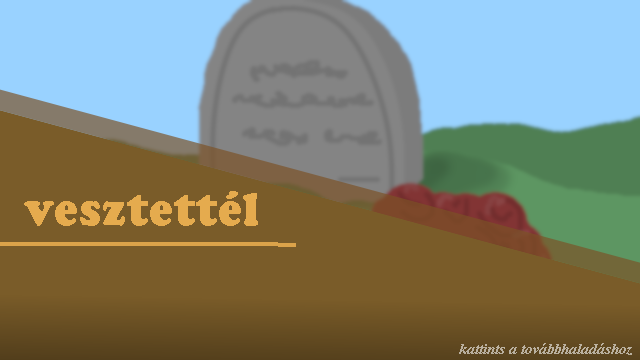
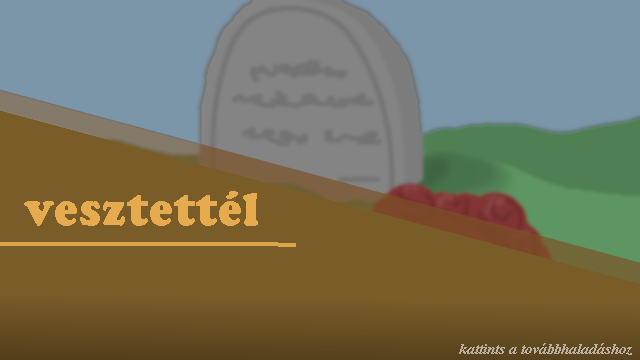
attackanim done

Changed region(s): [[0.5312, 0.0, 1.0, 0.3667], [0.0, 0.0, 0.4062, 0.3972]]

diff --git a/src/gui.py b/src/gui.py
@@ -8,11 +8,12 @@ width, height = 1280, 720
 #FO = főmenü
 #KARTYA = kártya menü
 #HARC =  harc event
-MENU = "KARTYA"
+MENU = "FO"
 
 user = None
 
 #fightEvent
+projanim:anim.Projectileanim | None = None 
 userCards:list[gameWrapper.CardSelectWrapper] = []
 dungeonCards:list[gameWrapper.CardSelectWrapper] = []
 turn=0
@@ -25,6 +26,9 @@ waittime = 0.5
 fightclock = 0
 endscreen = False
 endfightclock = 1
+playedDeadAnim = True
+WONIMG = None
+LOSTIMG = None
 
 #dungeon selection menu
 mode = 0
@@ -71,7 +75,35 @@ def play_sound(typein):
         fight_sound.set_volume(0.2)
         fight_sound.play()
 
+def fightEventEventhandler(event):
+    global endscreen
+    if endscreen:
+        if event.type==pygame.MOUSEBUTTONDOWN:
+            global turn
+            global isPlayerMove
+            global dungeonCardOut
+            global playerCardOut
+            global output
+            global fightclock
+            global endfightclock
+            global MENU
+            endscreen = False
+            dungeonCards.clear()
+            userCards.clear()
+            turn=0
+            isPlayerMove=False
+            playerCardOut = 0
+            dungeonCardOut = 0
+            output.clear()
+            fightclock = 0
+            MENU = "FO"
+            if swordanim != None:
+                swordanim.done=False
+                swordanim.innerclock = 0
+
 def fightEvent(dungeon:game.Dungeon,user:game.User,background,screen,deltaTime:float):
+    global WONIMG
+    global LOSTIMG
     global turn
     global endscreen
     global isPlayerMove
@@ -80,7 +112,8 @@ def fightEvent(dungeon:game.Dungeon,user:game.User,background,screen,deltaTime:f
     global output
     global fightclock
     global endfightclock
-    global MENU
+    global projanim
+    global playedDeadAnim
 
     ymargins = 10
     margins = 10
@@ -128,6 +161,18 @@ def fightEvent(dungeon:game.Dungeon,user:game.User,background,screen,deltaTime:f
         fightclock+=deltaTime
         pygame.display.flip()
         return
+    elif projanim != None and not projanim.done:
+        screen.blit(background,(0,0))
+        for card in userCards:
+            card.update(deltaTime,1.5)
+            card.draw(screen)
+        for card in dungeonCards:
+            card.update(deltaTime,1.5)
+            card.draw(screen)
+        projanim.playAnim(deltaTime,screen)
+        pygame.display.flip()
+        return
+
 
     #Check what to do
     currThing = output[turn].split(';')
@@ -145,6 +190,12 @@ def fightEvent(dungeon:game.Dungeon,user:game.User,background,screen,deltaTime:f
             turn+=1
             isPlayerMove = not isPlayerMove
         else:
+            if not playedDeadAnim:
+                if isPlayerMove:
+                    userCards[playerCardOut].destPos = (-20-dungeonCharCardWidth,height/2-dungeonCardHeight/2)
+                else:
+                    dungeonCards[dungeonCardOut].destPos = (width+20,height/2-dungeonCardHeight/2)
+                playedDeadAnim = True
             if userCards[playerCardOut].destPos == (-1,-1) and dungeonCards[dungeonCardOut].destPos == (-1,-1):
                 print(currThing)
                 print(playerCardOut)
@@ -161,24 +212,26 @@ def fightEvent(dungeon:game.Dungeon,user:game.User,background,screen,deltaTime:f
         if userCards[playerCardOut].destPos == (-1,-1) and dungeonCards[dungeonCardOut].destPos == (-1,-1):
             print(currThing)
             if isPlayerMove:
-                if currThing[-1] == '0':
-                    dungeonCards[dungeonCardOut].destPos = (width+20,-1)
-                else:
-                    dungeonCards[dungeonCardOut].destPos = (dungeonCards[dungeonCardOut].pos[0]+10,-1)
+                if projanim != None:
+                    projanim.done = False
+                    projanim.y = height//2
+                    projanim.startx = margins+dungeonCharCardWidth//2
+                    projanim.distance = width-dungeonCharCardWidth//2-margins - projanim.startx
+                    projanim.innerclock = 0
             else:
-                if currThing[-1] == '0':
-                    userCards[playerCardOut].destPos = (-dungeonCardWidth-20,-1)
-                else:
-                    userCards[playerCardOut].destPos = (userCards[playerCardOut].pos[0],-1)
+                if projanim != None:
+                    projanim.done = False
+                    projanim.y = height//2
+                    projanim.startx = width+dungeonCharCardWidth//2+margins
+                    projanim.distance = margins+dungeonCharCardWidth//2-projanim.startx
+                    projanim.innerclock = 0
+            if currThing[-1] == '0':
+                playedDeadAnim = False
             isPlayerMove = not isPlayerMove
             turn+=1
     else:
-        if waittime < endfightclock:
-            img = pygame.image.load("./src/img/WON.png")
-            img = pygame.transform.scale_by(img,2)
+        if waittime*2 < endfightclock:
             endscreen = True
-            screen.blit(img, (0,0))
-            print(currThing)
             if currThing[0].split(' ')[1] == "nyert":
                 if currThing[1] == "sebzes":
                     user.cards[user.cardNames[currThing[2]]].baseDmg = user.cards[user.cardNames[currThing[2]]].baseDmg + 1
@@ -186,18 +239,10 @@ def fightEvent(dungeon:game.Dungeon,user:game.User,background,screen,deltaTime:f
                     user.cards[user.cardNames[currThing[2]]].baseHp = user.cards[user.cardNames[currThing[2]]].baseHp + 2
                 else:
                     user.addCard(currThing[1])
-            dungeonCards.clear()
-            userCards.clear()
-            turn=0
-            isPlayerMove=False
-            playerCardOut = 0
-            dungeonCardOut = 0
-            output.clear()
-            if not endscreen:
-                fightclock = 0
-                if swordanim != None:
-                    swordanim.done=False
-                    swordanim.innerclock = 0
+                screen.blit(WONIMG, (0,0))
+            else:
+                screen.blit(LOSTIMG, (0,0))
+
         else:
             endfightclock+= deltaTime
 
@@ -529,6 +574,9 @@ def drawCards(screen,background):
 
 
 def UIMain():
+    global WONIMG
+    global LOSTIMG
+
     create()
     if user == None:
         print("Couldnt initialize user")
@@ -537,6 +585,12 @@ def UIMain():
     background = pygame.image.load("./src/img/BG.jpg")
     background = pygame.transform.scale(background,(width,height))
 
+    WONIMG = pygame.image.load("./src/img/WON.png")
+    WONIMG = pygame.transform.scale_by(WONIMG,2)
+
+    LOSTIMG = pygame.image.load("./src/img/LOST.png")
+    LOSTIMG = pygame.transform.scale_by(LOSTIMG,2)
+
     pygame.mixer.init()
     screen = pygame.display.set_mode((width, height))
     screen.fill((255, 255, 255))
@@ -544,6 +598,8 @@ def UIMain():
     clock:pygame.time.Clock = pygame.time.Clock()
     global swordanim
     swordanim = anim.SwordAnim(width,height)
+    global projanim
+    projanim = anim.Projectileanim(width,height)
 
     while running:
         for event in pygame.event.get():
@@ -553,6 +609,8 @@ def UIMain():
                 kazamata_update(event)
             elif MENU == "KARTYA":
                 selectPackScreenEventHandler(event)
+            else:
+                fightEventEventhandler(event)
 
         fps = clock.get_fps()
         if fps == 0:

diff --git a/src/anim.py b/src/anim.py
@@ -5,7 +5,6 @@ class SwordAnim:
     def __init__(self,width,height):
         self.width = width
         self.height = height
-        self.frame = 0
         self.pic = pygame.image.load("./src/img/sword.png").convert_alpha()
         self.pic = pygame.transform.scale_by(self.pic,1.75)
         self.finalangle = 60
@@ -36,3 +35,38 @@ class SwordAnim:
         if self.innerclock >= self.animtime:
             self.done = True
         self.innerclock+=deltaTime
+
+class Projectileanim:
+    def __init__(self,width,height):
+        self.width = width
+        self.height = height
+        self.y = 0
+        self.startx = 0
+        self.pic = pygame.image.load("./src/img/projectile.png").convert_alpha()
+        #self.pic = pygame.transform.scale_by(self.pic,1.75)
+        self.animtime = 2
+        self.innerclock:float = 0
+        self.done = True
+        self.distance = 0
+
+    def _animtiming(self)->float:
+        return self.innerclock**2*(self.distance/(self.animtime**2))
+
+    def playAnim(self,deltaTime,screen):
+        transformed = self.pic
+        if self.distance < 0:
+            transformed = pygame.transform.flip(transformed,True,False)
+
+        rect = transformed.get_rect()
+        rect.x = int(self.startx + self._animtiming())
+        rect.y = int(self.y-rect.h/2)
+
+        if self.distance < 0:
+            rect.x -= rect.w
+
+        screen.blit(transformed,(rect))
+
+        if self.innerclock >= self.animtime:
+            self.done = True
+        self.innerclock+=deltaTime
+

diff --git a/src/gameWrapper.py b/src/gameWrapper.py
@@ -85,6 +85,7 @@ class CardSelectWrapper:
         self.speed:tuple = (-1,-1)
         self.card:game.Card = card
         self.selected = False
+        self.disabled = False
 
         self.font = pygame.font.Font("src/font/Minister Std Bold.otf", 25)
         self.title_render = pygame.font.Font("src/font/Minister Std Bold.otf", 25).render(self.card.name, True, (255,255,255))
